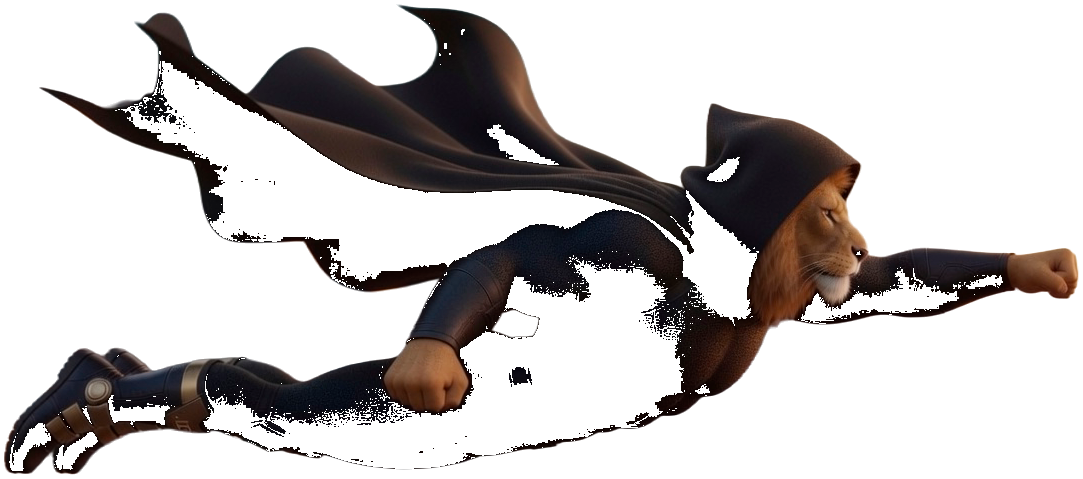
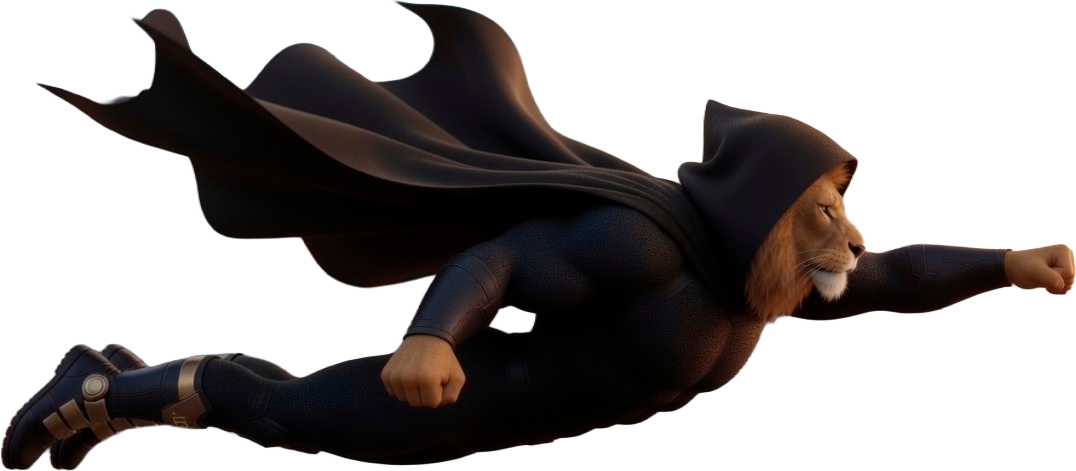
Restore solid Global Hero lion sprite with tight alpha crop.

diff --git a/host/client-sequoia-game.js b/host/client-sequoia-game.js
@@ -2,7 +2,7 @@
   const STORAGE_KEY = "globalImportsSequoiaFlappyBest";
   const PLAYER_NAME_KEY = "globalHeroPlayerName";
   const COVER_URL = "/assets/global-hero-cover.png";
-  const SPRITE_URL = "/assets/lion-hero-fly.png?v=20260802-hitbox01";
+  const SPRITE_URL = "/assets/lion-hero-fly.png?v=20260802-crop03";
   const BACKGROUND_URL = "/assets/sequoia-game-bg.png?v=20260616-gamebg01";
   const TRAFFIC_RED_URL = "/assets/srojo.png";
   const TRAFFIC_GREEN_URL = "/assets/sverde.png";

diff --git a/public/client-sequoia-game.js b/public/client-sequoia-game.js
@@ -2,7 +2,7 @@
   const STORAGE_KEY = "globalImportsSequoiaFlappyBest";
   const PLAYER_NAME_KEY = "globalHeroPlayerName";
   const COVER_URL = "/assets/global-hero-cover.png";
-  const SPRITE_URL = "/assets/lion-hero-fly.png?v=20260802-hitbox01";
+  const SPRITE_URL = "/assets/lion-hero-fly.png?v=20260802-crop03";
   const BACKGROUND_URL = "/assets/sequoia-game-bg.png?v=20260616-gamebg01";
   const TRAFFIC_RED_URL = "/assets/srojo.png";
   const TRAFFIC_GREEN_URL = "/assets/sverde.png";
